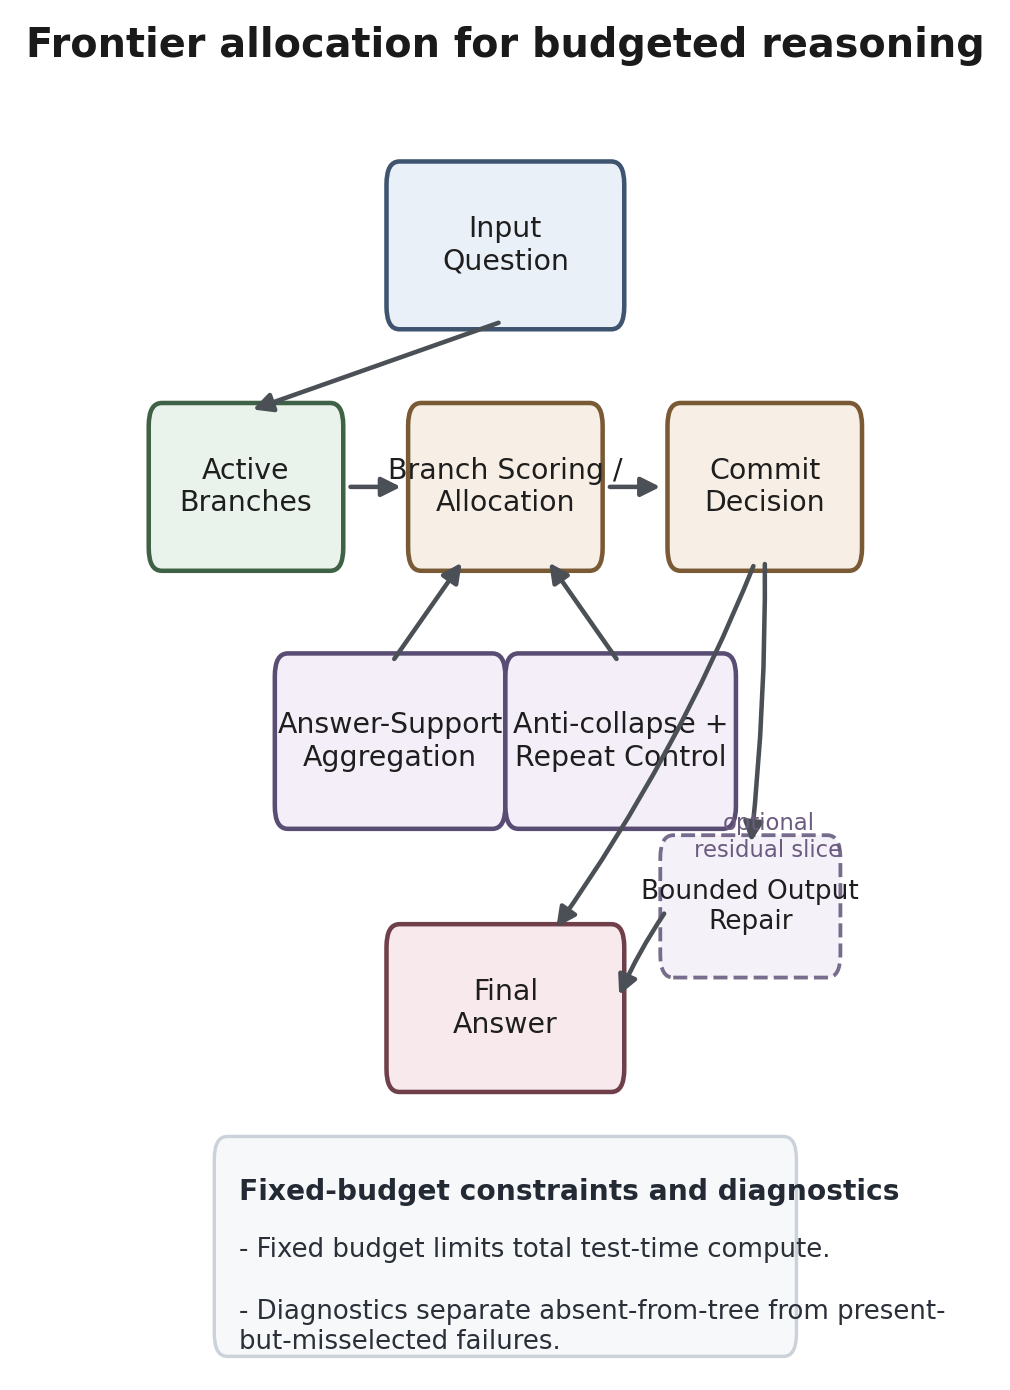
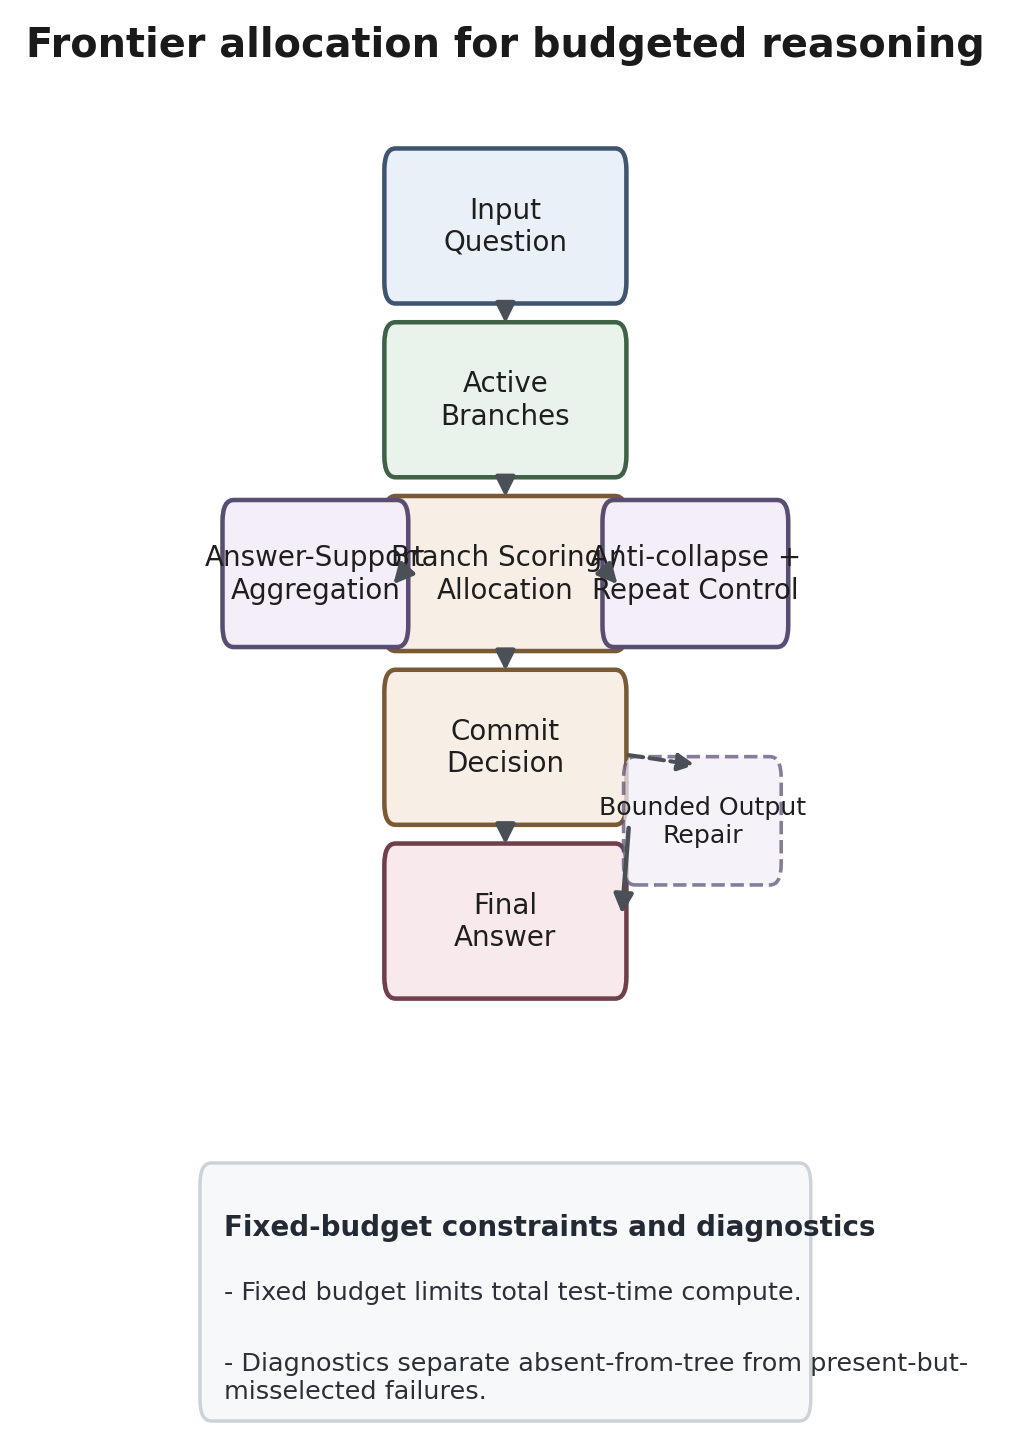
Simplify Figure 1 with minimal single-column flow hierarchy.
Remove floating optional annotations, enforce a sparse vertical main flow with side auxiliary inputs to scoring, and rebalance diagnostics panel sizing/wrapping so all text stays inside at paper-scale rendering.

Made-with: Cursor

diff --git a/scripts/paper/plot_figure1_problem_setup.py b/scripts/paper/plot_figure1_problem_setup.py
@@ -17,7 +17,7 @@ def main() -> None:
         raise FileNotFoundError(f"Missing figure1 spec: {spec_path}")
     spec = json.loads(spec_path.read_text(encoding="utf-8"))
 
-    fig, ax = plt.subplots(figsize=(3.45, 5.45))
+    fig, ax = plt.subplots(figsize=(3.45, 5.7))
     ax.axis("off")
 
     kind_style = {
@@ -30,31 +30,29 @@ def main() -> None:
     default_style = {"fc": "#f3f4f6", "ec": "#4a4a4a"}
 
     node_map = {n["id"]: n for n in spec["nodes"]}
-    # Strict 3-stage vertical flow with separated auxiliary controls.
+    # Minimal single-column layout: dominant vertical flow + two side auxiliaries.
     node_pos = {
-        "input": (0.50, 0.88),
-        "branches": (0.14, 0.69),
-        "scoring": (0.50, 0.69),
-        "commit": (0.86, 0.69),
-        "support": (0.34, 0.49),
-        "anticollapse": (0.66, 0.49),
-        "repair": (0.84, 0.36),
-        "final": (0.50, 0.28),
+        "input": (0.50, 0.90),
+        "branches": (0.50, 0.77),
+        "scoring": (0.50, 0.64),
+        "commit": (0.50, 0.51),
+        "final": (0.50, 0.38),
+        "support": (0.23, 0.64),
+        "anticollapse": (0.77, 0.64),
+        "repair": (0.78, 0.455),
     }
-    box_mid = (0.24, 0.102)
-    box_aux = (0.29, 0.108)
-    box_top = (0.30, 0.102)
-    box_bottom = (0.30, 0.102)
-    box_repair = (0.22, 0.082)
+    main_size = (0.32, 0.092)      # equal width for all main flow boxes
+    side_size = (0.24, 0.086)      # smaller side modules
+    repair_size = (0.20, 0.072)    # smallest, secondary optional module
     box_size = {
-        "input": box_top,
-        "branches": box_mid,
-        "scoring": box_mid,
-        "commit": box_mid,
-        "support": box_aux,
-        "anticollapse": box_aux,
-        "repair": box_repair,
-        "final": box_bottom,
+        "input": main_size,
+        "branches": main_size,
+        "scoring": main_size,
+        "commit": main_size,
+        "final": main_size,
+        "support": side_size,
+        "anticollapse": side_size,
+        "repair": repair_size,
     }
     forced_label = {
         "input": "Input\nQuestion",
@@ -80,29 +78,16 @@ def main() -> None:
             (x0, y0),
             bw,
             bh,
-            boxstyle="round,pad=0.015,rounding_size=0.018",
+            boxstyle="round,pad=0.012,rounding_size=0.016",
             fc=style["fc"],
             ec=style["ec"],
             lw=1.25,
             transform=ax.transAxes,
         )
         if nid == "repair":
-            patch.set_alpha(0.82)
+            patch.set_alpha(0.72)
             patch.set_linestyle("--")
-            patch.set_linewidth(1.05)
-        ax.add_patch(
-            FancyBboxPatch(
-                (x0, y0),  # shadow-like subtle underlay for consistency
-                bw,
-                bh,
-                boxstyle="round,pad=0.015,rounding_size=0.018",
-                fc=style["fc"],
-                ec="none",
-                lw=0.0,
-                alpha=0.0,
-                transform=ax.transAxes,
-            )
-        )
+            patch.set_linewidth(1.0)
         ax.add_patch(patch)
         wrapped = forced_label.get(nid, n["label"])
         ax.text(
@@ -111,7 +96,7 @@ def main() -> None:
             wrapped,
             ha="center",
             va="center",
-            fontsize=7.85 if nid != "repair" else 7.3,
+            fontsize=7.7 if nid != "repair" else 7.0,
             color="#1e1e1e",
             transform=ax.transAxes,
         )
@@ -140,48 +125,36 @@ def main() -> None:
             textcoords=ax.transAxes,
         )
 
-    # Main flow: Input -> Active Branches -> Branch Scoring -> Commit/Expand -> Final Answer.
-    _arrow((anchors["input"]["bottom"][0], anchors["input"]["bottom"][1] - 0.008), (anchors["branches"]["top"][0], anchors["branches"]["top"][1] + 0.008))
-    _arrow((anchors["branches"]["right"][0] + 0.015, anchors["branches"]["right"][1]), (anchors["scoring"]["left"][0] - 0.015, anchors["scoring"]["left"][1]))
-    _arrow((anchors["scoring"]["right"][0] + 0.015, anchors["scoring"]["right"][1]), (anchors["commit"]["left"][0] - 0.015, anchors["commit"]["left"][1]))
-    # Primary direct path to final answer.
-    _arrow((anchors["commit"]["bottom"][0] - 0.012, anchors["commit"]["bottom"][1] - 0.006), (anchors["final"]["top"][0] + 0.065, anchors["final"]["top"][1] + 0.008), rad=-0.06)
+    # Main vertical flow (short straight arrows).
+    _arrow((anchors["input"]["bottom"][0], anchors["input"]["bottom"][1] - 0.006), (anchors["branches"]["top"][0], anchors["branches"]["top"][1] + 0.006))
+    _arrow((anchors["branches"]["bottom"][0], anchors["branches"]["bottom"][1] - 0.006), (anchors["scoring"]["top"][0], anchors["scoring"]["top"][1] + 0.006))
+    _arrow((anchors["scoring"]["bottom"][0], anchors["scoring"]["bottom"][1] - 0.006), (anchors["commit"]["top"][0], anchors["commit"]["top"][1] + 0.006))
+    _arrow((anchors["commit"]["bottom"][0], anchors["commit"]["bottom"][1] - 0.006), (anchors["final"]["top"][0], anchors["final"]["top"][1] + 0.006))
 
     # Auxiliary modules feed into Branch Scoring.
-    _arrow((anchors["support"]["top"][0], anchors["support"]["top"][1] + 0.006), (anchors["scoring"]["bottom"][0] - 0.055, anchors["scoring"]["bottom"][1] - 0.004))
-    _arrow((anchors["anticollapse"]["top"][0], anchors["anticollapse"]["top"][1] + 0.006), (anchors["scoring"]["bottom"][0] + 0.055, anchors["scoring"]["bottom"][1] - 0.004))
+    _arrow((anchors["support"]["right"][0] + 0.004, anchors["support"]["right"][1]), (anchors["scoring"]["left"][0] - 0.006, anchors["scoring"]["left"][1] - 0.012))
+    _arrow((anchors["anticollapse"]["left"][0] - 0.004, anchors["anticollapse"]["left"][1]), (anchors["scoring"]["right"][0] + 0.006, anchors["scoring"]["right"][1] - 0.012))
 
-    # Optional residual-slice repair path.
-    _arrow(
-        (anchors["commit"]["bottom"][0], anchors["commit"]["bottom"][1] - 0.004),
-        (anchors["repair"]["top"][0], anchors["repair"]["top"][1] + 0.004),
-        rad=-0.03,
+    # Optional secondary repair path (dashed arrow only as requested).
+    ax.annotate(
+        "",
+        xy=(anchors["repair"]["top"][0], anchors["repair"]["top"][1] + 0.005),
+        xytext=(anchors["commit"]["right"][0] + 0.005, anchors["commit"]["right"][1] - 0.005),
+        arrowprops={"arrowstyle": "-|>", "lw": 1.1, "color": arrow_color, "linestyle": "--", "mutation_scale": 10},
+        xycoords=ax.transAxes,
+        textcoords=ax.transAxes,
     )
-    _arrow(
-        (anchors["repair"]["left"][0] - 0.004, anchors["repair"]["left"][1] - 0.001),
-        (anchors["final"]["right"][0] + 0.004, anchors["final"]["right"][1] + 0.005),
-        rad=0.05,
-    )
-    ax.text(
-        0.865,
-        0.415,
-        "optional\nresidual slice",
-        ha="center",
-        va="center",
-        fontsize=6.3,
-        color="#6b5b7f",
-        transform=ax.transAxes,
-    )
+    _arrow((anchors["repair"]["left"][0] - 0.004, anchors["repair"]["left"][1]), (anchors["final"]["right"][0] + 0.005, anchors["final"]["right"][1]))
 
     # Secondary diagnostics panel below main flow.
     notes = spec.get("notes", [])[:2]
-    panel_x, panel_y, panel_w, panel_h = 0.11, 0.02, 0.78, 0.145
+    panel_x, panel_y, panel_w, panel_h = 0.08, 0.02, 0.84, 0.165
     ax.add_patch(
         FancyBboxPatch(
             (panel_x, panel_y),
             panel_w,
             panel_h,
-            boxstyle="round,pad=0.014,rounding_size=0.018",
+            boxstyle="round,pad=0.014,rounding_size=0.016",
             fc="#f7f8fa",
             ec="#ccd2da",
             lw=0.95,
@@ -190,20 +163,20 @@ def main() -> None:
     )
     ax.text(
         panel_x + 0.02,
-        panel_y + panel_h - 0.036,
+        panel_y + panel_h - 0.04,
         "Fixed-budget constraints and diagnostics",
-        fontsize=7.8,
+        fontsize=7.7,
         fontweight="semibold",
         color="#232a34",
         transform=ax.transAxes,
     )
     for idx, note in enumerate(notes):
-        wrapped_note = textwrap.fill(note, width=54)
+        wrapped_note = textwrap.fill(note, width=60)
         ax.text(
             panel_x + 0.02,
-            panel_y + panel_h - 0.065 - idx * 0.049,
+            panel_y + panel_h - 0.074 - idx * 0.053,
             f"- {wrapped_note}",
-            fontsize=7.2,
+            fontsize=7.05,
             color="#2a2f38",
             transform=ax.transAxes,
             va="top",